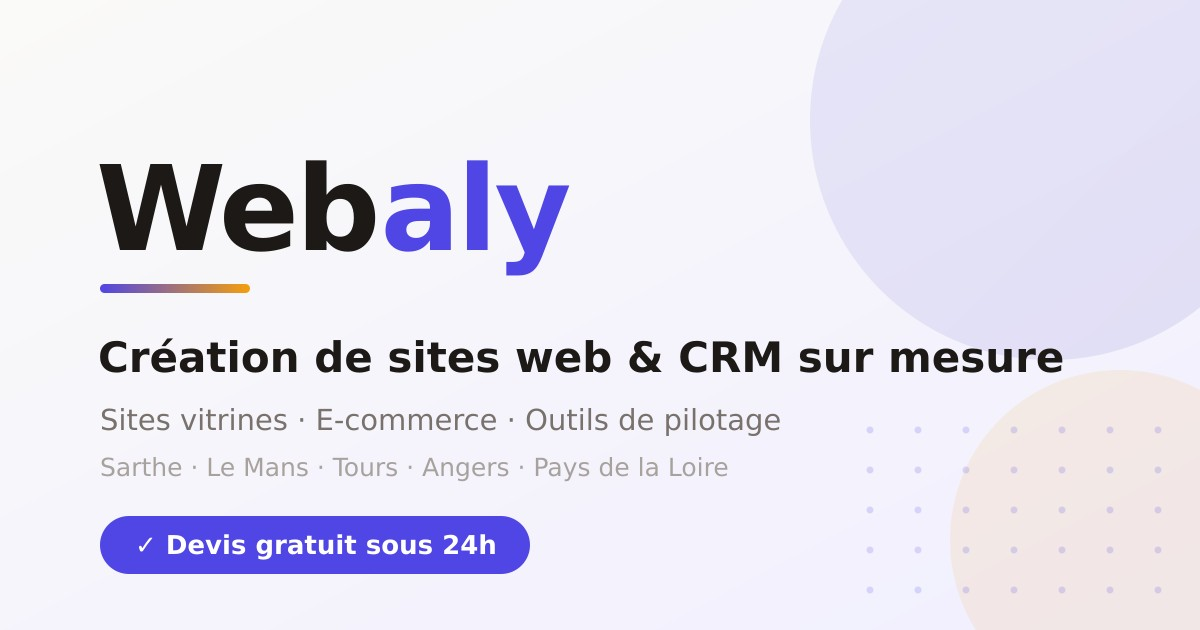
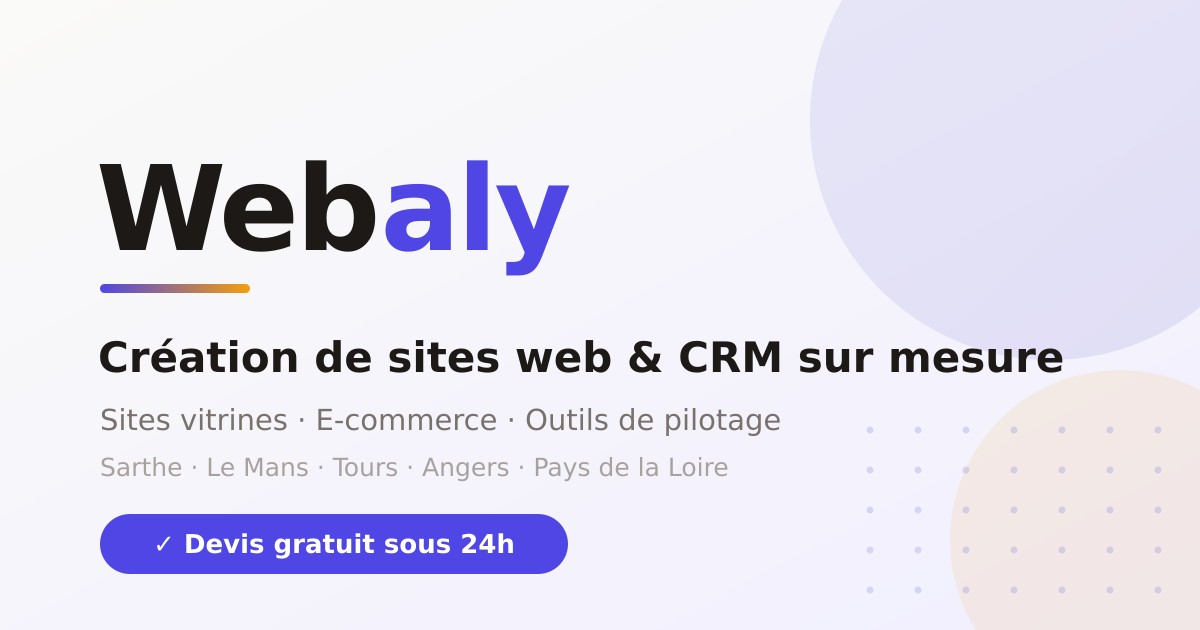
Mentions légales + politique de confidentialité RGPD, téléphone réel, badge OG
- Mentions légales complètes (éditeur, hébergeur Netlify, propriété
  intellectuelle, responsabilité, droit applicable)
- Politique de confidentialité RGPD complète (finalités, base légale,
  destinataires, conservation, cookies, droits, CNIL, sécurité)
- Téléphone réel ([phone redacted]) dans le SEO/structured data
- Badge « Devis gratuit sous 24h » de l'image OG entièrement en violet

Changed region(s): [[0.0925, 0.8143, 0.4933, 0.9349]]

diff --git a/components/WebalyLanding.jsx b/components/WebalyLanding.jsx
@@ -906,23 +906,40 @@ const Footer=()=>{
             <div style={{padding:"1.75rem",fontSize:".85rem",color:C.slate,lineHeight:1.8}}>
               {modal==="legal"?(
                 <>
-                  <p style={{marginBottom:"1rem",padding:".75rem 1rem",background:C.goldLt,borderRadius:8,fontSize:".78rem",color:C.warn,fontWeight:600}}>⚠ Modèle à compléter avec vos informations réelles avant mise en ligne.</p>
                   <p style={{fontWeight:700,color:C.charcoal,marginBottom:".25rem"}}>Éditeur du site</p>
-                  <p style={{marginBottom:"1rem"}}>Webaly — [Votre nom / raison sociale]<br/>SIRET : [à compléter]<br/>Adresse : [à compléter]<br/>Email : [à compléter] · Tél : [à compléter]</p>
+                  <p style={{marginBottom:"1rem"}}>Webaly — entreprise individuelle (auto-entrepreneur)<br/>Immatriculation en cours (SIRET à venir)<br/>Email : [email redacted]<br/>Téléphone : [phone redacted]</p>
+                  <p style={{fontWeight:700,color:C.charcoal,marginBottom:".25rem"}}>Directeur de la publication</p>
+                  <p style={{marginBottom:"1rem"}}>Le représentant légal de Webaly.</p>
                   <p style={{fontWeight:700,color:C.charcoal,marginBottom:".25rem"}}>Hébergement</p>
-                  <p style={{marginBottom:"1rem"}}>[Nom de l'hébergeur, ex. Vercel Inc.]<br/>[Adresse de l'hébergeur]</p>
+                  <p style={{marginBottom:"1rem"}}>Netlify, Inc.<br/>512 2nd Street, Suite 200, San Francisco, CA 94107, États-Unis<br/>netlify.com</p>
                   <p style={{fontWeight:700,color:C.charcoal,marginBottom:".25rem"}}>Propriété intellectuelle</p>
-                  <p>L'ensemble des contenus de ce site (textes, visuels, code) est la propriété de Webaly, sauf mention contraire. Toute reproduction sans autorisation est interdite.</p>
+                  <p style={{marginBottom:"1rem"}}>L'ensemble des contenus de ce site (textes, visuels, code, identité graphique) est la propriété exclusive de Webaly, sauf mention contraire. Toute reproduction, représentation ou diffusion, totale ou partielle, sans autorisation écrite préalable est interdite et constitue une contrefaçon.</p>
+                  <p style={{fontWeight:700,color:C.charcoal,marginBottom:".25rem"}}>Responsabilité</p>
+                  <p style={{marginBottom:"1rem"}}>Webaly s'efforce d'assurer l'exactitude des informations diffusées sur ce site, sans pouvoir en garantir l'exhaustivité. La responsabilité de Webaly ne saurait être engagée en cas d'indisponibilité temporaire du site ou de dommages résultant de son utilisation.</p>
+                  <p style={{fontWeight:700,color:C.charcoal,marginBottom:".25rem"}}>Liens hypertextes</p>
+                  <p style={{marginBottom:"1rem"}}>Ce site peut contenir des liens vers des sites tiers. Webaly n'exerce aucun contrôle sur ces ressources externes et décline toute responsabilité quant à leur contenu.</p>
+                  <p style={{fontWeight:700,color:C.charcoal,marginBottom:".25rem"}}>Droit applicable</p>
+                  <p>Les présentes mentions sont régies par le droit français. Tout litige relève de la compétence des tribunaux français.</p>
                 </>
               ):(
                 <>
-                  <p style={{marginBottom:"1rem",padding:".75rem 1rem",background:C.goldLt,borderRadius:8,fontSize:".78rem",color:C.warn,fontWeight:600}}>⚠ Modèle à adapter selon votre usage réel des données.</p>
+                  <p style={{marginBottom:"1.25rem"}}>Webaly accorde une grande importance à la protection de vos données personnelles. La présente politique décrit, conformément au Règlement Général sur la Protection des Données (RGPD) et à la loi « Informatique et Libertés », la manière dont vos données sont collectées et traitées.</p>
+                  <p style={{fontWeight:700,color:C.charcoal,marginBottom:".25rem"}}>Responsable du traitement</p>
+                  <p style={{marginBottom:"1rem"}}>Webaly — entreprise individuelle. Contact : [email redacted] · [phone redacted].</p>
                   <p style={{fontWeight:700,color:C.charcoal,marginBottom:".25rem"}}>Données collectées</p>
-                  <p style={{marginBottom:"1rem"}}>Les informations saisies dans le formulaire de contact (nom, email, téléphone, message) sont utilisées uniquement pour répondre à votre demande. Elles ne sont jamais revendues.</p>
-                  <p style={{fontWeight:700,color:C.charcoal,marginBottom:".25rem"}}>Conservation</p>
-                  <p style={{marginBottom:"1rem"}}>Vos données sont conservées le temps nécessaire au traitement de votre demande, puis supprimées.</p>
-                  <p style={{fontWeight:700,color:C.charcoal,marginBottom:".25rem"}}>Vos droits (RGPD)</p>
-                  <p>Vous pouvez demander l'accès, la rectification ou la suppression de vos données à tout moment en écrivant à [votre email].</p>
+                  <p style={{marginBottom:"1rem"}}>Via le formulaire de contact : prénom, nom, adresse email, numéro de téléphone, type de projet et message. Aucune donnée sensible n'est demandée. Les champs marqués d'un astérisque sont obligatoires pour traiter votre demande.</p>
+                  <p style={{fontWeight:700,color:C.charcoal,marginBottom:".25rem"}}>Finalités &amp; base légale</p>
+                  <p style={{marginBottom:"1rem"}}>Vos données sont utilisées uniquement pour répondre à votre demande, établir un devis et assurer le suivi de notre relation commerciale. La base légale est votre consentement (envoi du formulaire) et l'intérêt légitime de Webaly à répondre aux sollicitations.</p>
+                  <p style={{fontWeight:700,color:C.charcoal,marginBottom:".25rem"}}>Destinataires</p>
+                  <p style={{marginBottom:"1rem"}}>Vos données sont destinées au seul responsable du traitement. Elles ne sont ni vendues, ni louées, ni cédées à des tiers à des fins commerciales. Elles peuvent transiter par nos prestataires techniques (hébergement, traitement du formulaire via Google) agissant comme sous-traitants.</p>
+                  <p style={{fontWeight:700,color:C.charcoal,marginBottom:".25rem"}}>Durée de conservation</p>
+                  <p style={{marginBottom:"1rem"}}>Vos données sont conservées le temps nécessaire au traitement de votre demande, puis pendant une durée maximale de 3 ans à compter de notre dernier contact, avant suppression. Les données liées à une relation contractuelle sont conservées selon les obligations légales applicables.</p>
+                  <p style={{fontWeight:700,color:C.charcoal,marginBottom:".25rem"}}>Cookies</p>
+                  <p style={{marginBottom:"1rem"}}>Ce site ne dépose pas de cookies publicitaires ni de traceurs de suivi à des fins marketing. Seuls les cookies strictement nécessaires au fonctionnement du site peuvent être utilisés.</p>
+                  <p style={{fontWeight:700,color:C.charcoal,marginBottom:".25rem"}}>Vos droits</p>
+                  <p style={{marginBottom:"1rem"}}>Conformément au RGPD, vous disposez d'un droit d'accès, de rectification, d'effacement, de limitation, d'opposition et de portabilité de vos données. Vous pouvez exercer ces droits à tout moment en écrivant à <strong style={{color:C.indigo}}>[email redacted]</strong>. Vous disposez également du droit d'introduire une réclamation auprès de la CNIL (www.cnil.fr).</p>
+                  <p style={{fontWeight:700,color:C.charcoal,marginBottom:".25rem"}}>Sécurité</p>
+                  <p>Webaly met en œuvre les mesures techniques et organisationnelles appropriées pour protéger vos données contre tout accès, altération ou divulgation non autorisés.</p>
                 </>
               )}
             </div>

diff --git a/app/layout.js b/app/layout.js
@@ -5,8 +5,8 @@
 
 const SITE_URL = "https://www.webaly.fr"; // ⚠️ ton vrai domaine une fois acheté
 const BUSINESS_NAME = "Webaly";
-const PHONE = "[phone redacted]"; // ⚠️ ton numéro
-const EMAIL = "[email redacted]"; // ⚠️ ton email
+const PHONE = "[phone redacted]"; // [phone redacted]
+const EMAIL = "[email redacted]";
 
 export const metadata = {
   metadataBase: new URL(SITE_URL),